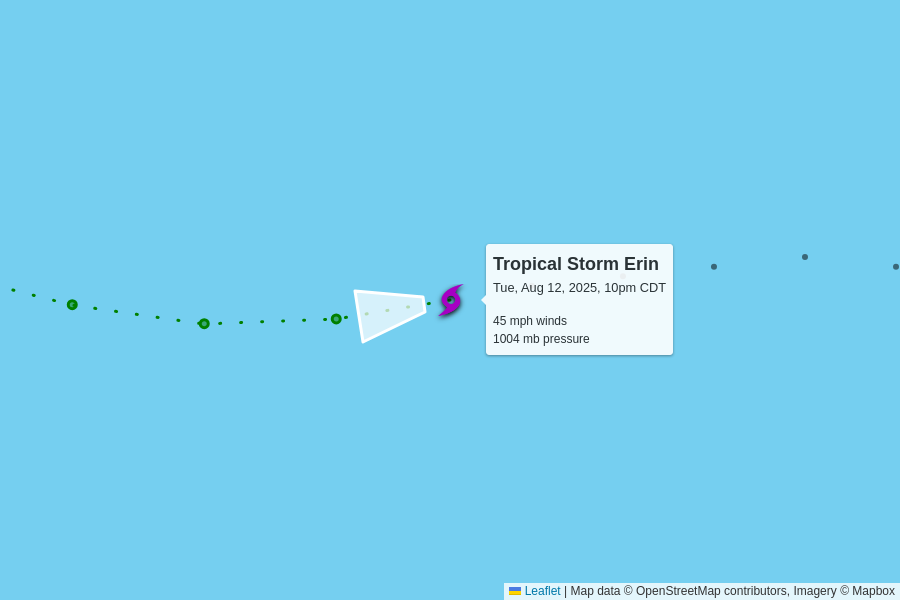
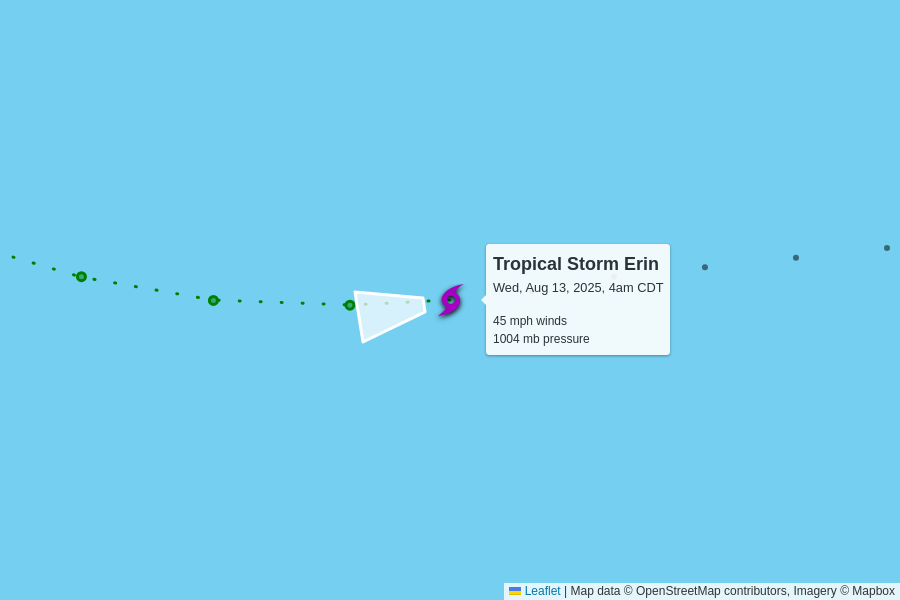
automatic update

diff --git a/docs/index.html b/docs/index.html
@@ -102,7 +102,7 @@
         <td colspan="6" class="storm category-0" >
           <h2>
             Tropical Storm Erin
-            <p class="updated">last updated <span data-time>2025-08-13T03:00:00.000Z</span></p>
+            <p class="updated">last updated <span data-time>2025-08-13T09:00:00.000Z</span></p>
           </h2>
         </td>
       </tr>
@@ -118,7 +118,7 @@
       <tr>
         <td class="spacer"></td>
         <td>45 mph<br>0 mph since last update</td>
-        <td>1004 mb<br>-2 mb since last update</td>
+        <td>1004 mb<br>0 mb since last update</td>
         <td>
           20 mph to the west
           <br/>
